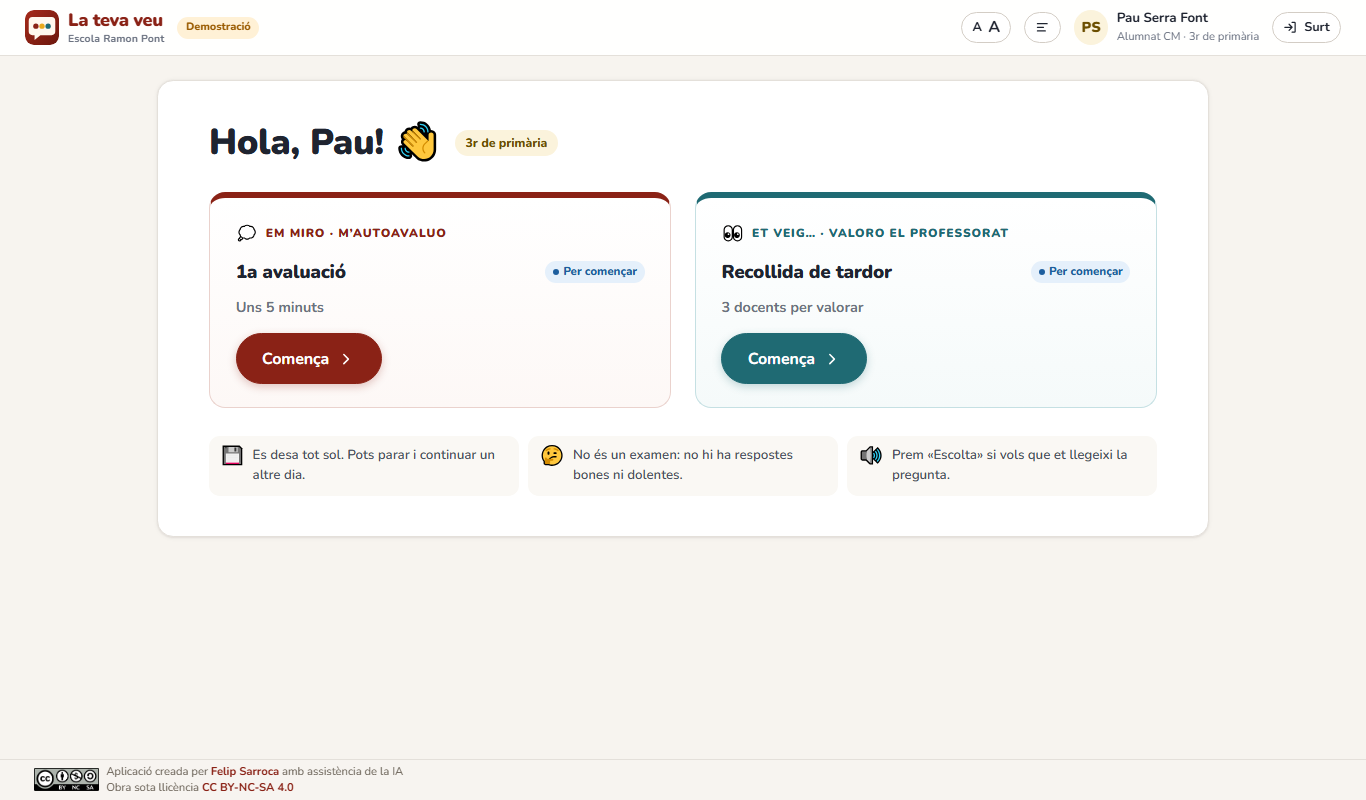
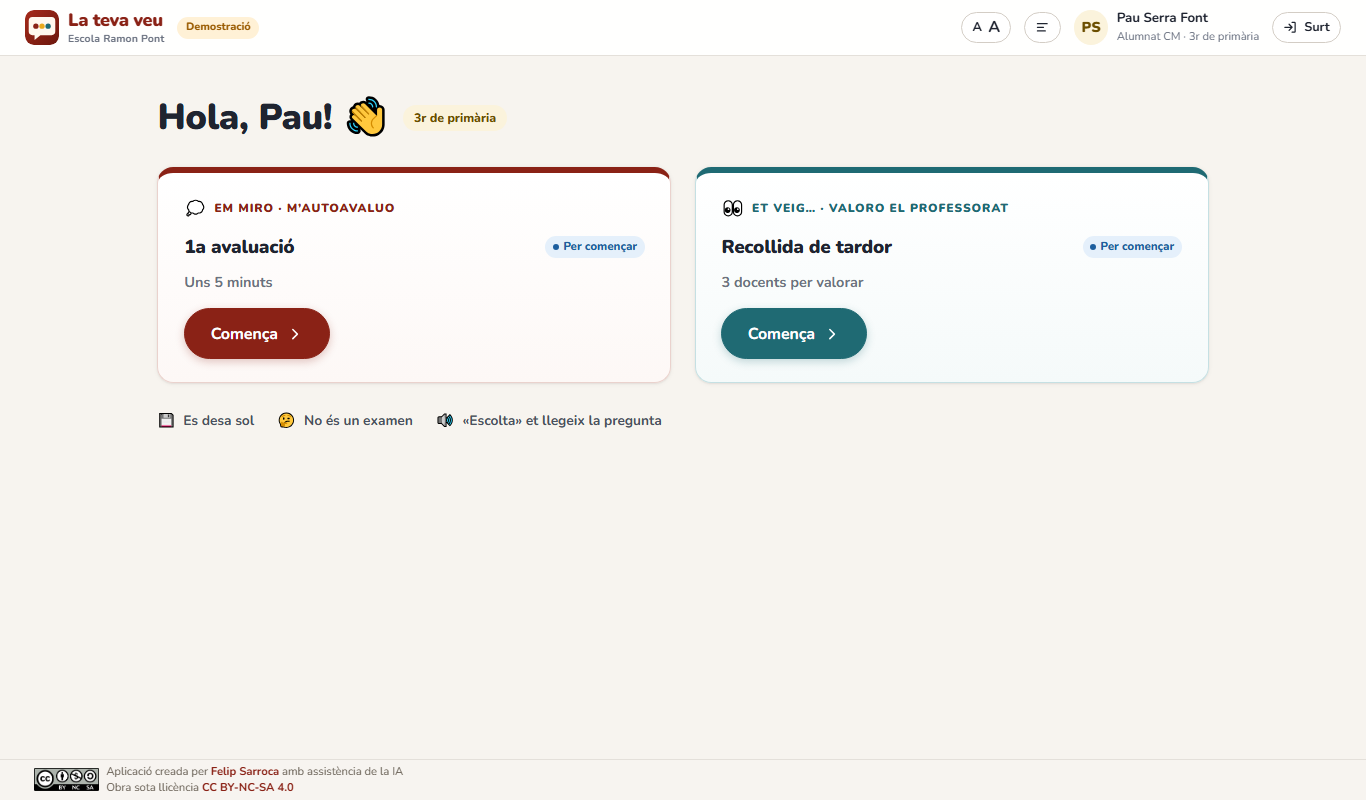
La teva veu: pantalles de l'alumnat més netes i millor lectura en veu alta
- Fora requadres dins de requadres: l'inici i la llista de docents ja no
  van dins d'una targeta; les preguntes són files amb una línia divisòria;
  el resum final és una llista simple; el docent que es valora, sense caixa.
- Fora textos sobrers: la frase de la llista de docents, l'avís blau de
  confidencialitat (ara una línia), els rètols «Bloc», «Apartat» i «Abans
  d'enviar», l'ajuda de les observacions, el nom de l'etapa i els consells
  llargs. A primària, tampoc les dates.
- Veu: tria la millor veu catalana (naturals d'Edge o Google a Android),
  llegeix frase a frase, salta els emojis i adapta la velocitat.
- Captures del README i SEGUIMENT.md actualitzats.

diff --git a/LaTevaVeu/src/student/EtVeig.tsx b/LaTevaVeu/src/student/EtVeig.tsx
@@ -110,28 +110,20 @@ function TeacherList({ home, stage, onPick, onExit }: { home: FeedbackHome; stag
   const all = done === total
   return (
     <main className="stu-main etveig">
-      <section className="card hello">
+      <section className="hello plain">
         <div className="mod-kicker ev">
           <span aria-hidden="true">👀</span> Et veig…
         </div>
         <h1>{all ? 'Ho has fet tot! Gràcies.' : 'La meva mirada al professorat'}</h1>
-        <p className="step-intro">
-          {stage === 'CM'
-            ? 'Explica com et sents a les classes de cada mestre. No hi ha respostes bones ni dolentes.'
-            : 'Explica com vius les classes de cada docent i què t’ajuda a aprendre. Serveix perquè l’escola millori com ensenya.'}
+        <p className="quiet-note">
+          <Icon name="shield" /> {stage === 'CM' ? 'El mestre no veurà mai les teves respostes.' : 'El docent no veurà mai les teves respostes, només les del grup.'}
         </p>
-        <div className="notice">
-          <Icon name="shield" />
-          <div>
-            Les teves respostes s’ajunten amb les dels companys. El docent veu els resultats del grup, <b>mai les teves respostes</b>. Un cop lliurada la valoració d’un docent, ja no es pot canviar.
-          </div>
-        </div>
         <div className="progress">
           <div className="progress-top">
             <span>
               {done} de {total} {stage === 'CM' ? 'mestres' : 'docents'} fets
             </span>
-            <span>Oberta fins al {fmtDate(home.campaign.end)}</span>
+            {stage === 'ESO' && <span>Oberta fins al {fmtDate(home.campaign.end)}</span>}
           </div>
           <div className="progress-bar ev" role="progressbar" aria-valuemin={0} aria-valuemax={total} aria-valuenow={done}>
             <div style={{ width: `${(done / total) * 100}%` }} />
@@ -142,7 +134,6 @@ function TeacherList({ home, stage, onPick, onExit }: { home: FeedbackHome; stag
             <TeacherCard key={t.email} t={t} onPick={() => onPick(t.email)} />
           ))}
         </div>
-        {!all && <p className="muted" style={{ fontSize: '.9rem' }}>Pots fer-ne uns quants avui i continuar un altre dia: el que comencis es desa sol.</p>}
         {onExit && (
           <div className="row">
             <button className="btn" onClick={onExit}>
@@ -346,20 +337,17 @@ function TeacherForm({ source, scale, stage, home, target, onBack, onDone }: { s
               </div>
               <h2 className="step-title">Vols afegir-hi alguna cosa?</h2>
             </div>
-            <p className="step-intro">És opcional. Escriu sobre les classes, no sobre companys. No posis noms ni detalls que permetin saber qui ets.</p>
+            <p className="step-intro">Parla de les classes i no posis noms.</p>
             {form.open.map((q) => (
               <TextAnswer key={q.id} q={{ id: q.id, type: 'shortText', text: q.text, required: false, maxLength: q.maxLength, active: true }} ctx={{ stage, scales: [scale], answers, set }} />
             ))}
             {missing.length > 0 && (
-              <div className="notice warn">
-                <Icon name="alert" />
-                <div>
-                  Et {missing.length === 1 ? 'falta 1 afirmació' : `falten ${missing.length} afirmacions`} per respondre.{' '}
-                  <button className="link-btn" onClick={() => go(steps.findIndex((st) => (st.kind === 'item' ? st.item.id === missing[0].id : st.kind === 'dim' && st.dimId === missing[0].dimensionId)))}>
-                    Vés-hi
-                  </button>
-                </div>
-              </div>
+              <p className="step-intro">
+                Et {missing.length === 1 ? 'falta 1 afirmació' : `falten ${missing.length} afirmacions`} per respondre.{' '}
+                <button className="link-btn" onClick={() => go(steps.findIndex((st) => (st.kind === 'item' ? st.item.id === missing[0].id : st.kind === 'dim' && st.dimId === missing[0].dimensionId)))}>
+                  Vés-hi
+                </button>
+              </p>
             )}
           </>
         )}
@@ -383,7 +371,7 @@ function TeacherForm({ source, scale, stage, home, target, onBack, onDone }: { s
 
       {confirm && (
         <Modal title={`Lliures la valoració de ${target.name}?`} onClose={() => setConfirm(false)}>
-          <p>Un cop lliurada, s’ajuntarà amb la dels companys i ja no la podràs canviar.</p>
+          <p>Després ja no la podràs canviar.</p>
           <div className="row" style={{ justifyContent: 'flex-end' }}>
             <button className="btn" onClick={() => setConfirm(false)}>Encara no</button>
             <button className="btn primary ev" onClick={submit} disabled={busy}>

diff --git a/LaTevaVeu/src/student/StudentApp.tsx b/LaTevaVeu/src/student/StudentApp.tsx
@@ -1,6 +1,6 @@
 import { useEffect, useMemo, useRef, useState } from 'react'
 import { feedbackHome, logAudit, saveDraft, studentHome, submitResponse, useDemoState, type FeedbackHome } from '../data/api'
-import { gradeById, STAGES } from '../domain/catalog'
+import { gradeById } from '../domain/catalog'
 import { gradeAndGroup } from '../domain/groups'
 import { buildSteps, findMissing, progress, requiredKeys, stepComplete, type Step } from '../domain/engine'
 import type { Answers, Session } from '../domain/types'
@@ -55,7 +55,9 @@ export function StudentApp({ session }: { session: Session }) {
             <div className="big" aria-hidden="true">🎉</div>
             <h1>Ja està! Gràcies, {home.student.name}.</h1>
             <p className="step-intro" style={{ maxWidth: 520 }}>
-              La teva autoavaluació s’ha lliurat correctament. El teu tutor o tutora la podrà llegir. Fins al {fmtDate(home.campaign!.end)} encara la pots revisar si cal.
+              {stage === 'ESO'
+                ? `El teu tutor o tutora la podrà llegir. Fins al ${fmtDate(home.campaign!.end)} encara la pots revisar.`
+                : 'El teu tutor o tutora la llegirà.'}
             </p>
             <div className="row" style={{ justifyContent: 'center' }}>
               <button className="btn" onClick={() => setView('home')}>Torna a l’inici</button>
@@ -88,7 +90,7 @@ function StudentHome({ home, fb, session, onStart, onEtVeig, toast }: { home: No
 
   return (
     <main className="stu-main stu-home">
-      <section className="card hello">
+      <section className="hello plain">
         <div className="hello-top">
           <h1>
             Hola, {student.name}! <span aria-hidden="true">👋</span>
@@ -169,11 +171,11 @@ function StudentHome({ home, fb, session, onStart, onEtVeig, toast }: { home: No
         </div>
 
         {campaign && !delivered && (
-          <div className="tips">
-            <div className="tip"><span className="em" aria-hidden="true">💾</span>Es desa tot sol. Pots parar i continuar un altre dia.</div>
-            <div className="tip"><span className="em" aria-hidden="true">🤔</span>No és un examen: no hi ha respostes bones ni dolentes.</div>
-            <div className="tip"><span className="em" aria-hidden="true">{grade.stage === 'ESO' ? '🎯' : '🔊'}</span>{grade.stage === 'ESO' ? 'Sigues sincer: t’ajudarà a millorar.' : 'Prem «Escolta» si vols que et llegeixi la pregunta.'}</div>
-          </div>
+          <ul className="tips">
+            <li><span aria-hidden="true">💾</span> Es desa sol</li>
+            <li><span aria-hidden="true">🤔</span> No és un examen</li>
+            {grade.stage !== 'ESO' && <li><span aria-hidden="true">🔊</span> «Escolta» et llegeix la pregunta</li>}
+          </ul>
         )}
 
         {home.history.length > 0 && (
@@ -211,7 +213,6 @@ function StudentHome({ home, fb, session, onStart, onEtVeig, toast }: { home: No
           </div>
         </Modal>
       )}
-      {!young && <p className="muted" style={{ textAlign: 'center', fontSize: '.85rem' }}>{STAGES[grade.stage].name}</p>}
     </main>
   )
 }
@@ -399,17 +400,11 @@ function Questionnaire({ session, stage, home, onExit, onDone }: { session: Sess
           <StepBody step={step} ctx={{ stage, scales: s.scales, answers, set, flagged, previousGoal: home.previousGoal }} />
         ) : (
           <>
-            <div className="step-kicker">
-              <span className="em" aria-hidden="true">🔎</span> Abans d’enviar
-            </div>
-            <h2 className="step-title">{missing.length ? 'Gairebé ho tens!' : 'Ho tens tot! Revisa-ho i envia-ho.'}</h2>
+            <h2 className="step-title">{missing.length ? 'Gairebé ho tens!' : 'Ho tens tot! Ja ho pots enviar.'}</h2>
             {missing.length > 0 && (
-              <div className="notice warn">
-                <Icon name="alert" />
-                <div>
-                  Et {missing.length === 1 ? 'falta 1 resposta' : `falten ${missing.length} respostes`}. Toca un apartat per completar-lo.
-                </div>
-              </div>
+              <p className="step-intro">
+                Et {missing.length === 1 ? 'falta 1 resposta' : `falten ${missing.length} respostes`}. Toca un apartat per acabar-lo.
+              </p>
             )}
             <div className="review-list">
               {reviewSections.map((r) => (

diff --git a/LaTevaVeu/src/styles.css b/LaTevaVeu/src/styles.css
@@ -281,9 +281,10 @@ body { padding-bottom: var(--footer-h); }
 
 /* Llista d'afirmacions amb opcions segmentades */
 .qlist { display: grid; gap: .8rem; }
-.qrow { display: grid; gap: .6rem; padding: .95rem 1rem; border: 1.5px solid var(--line); border-radius: var(--r-m); background: #fff; transition: border-color .15s, background .15s; }
-.qrow.done { border-color: #cfe3d6; background: #fbfdfb; }
-.qrow.missing { border-color: #f0b4ad; background: #fff8f7; }
+.qlist:has(> .qrow) { gap: .15rem; }
+.qrow { display: grid; gap: .6rem; padding: .9rem .25rem; margin: 0; border: 0; border-bottom: 1px solid var(--line); border-radius: 0; background: none; transition: background .15s; }
+.qrow:last-child { border-bottom: 0; }
+.qrow.missing { background: #fff6f5; border-radius: var(--r-s); box-shadow: inset 3px 0 0 #e58f86; padding-left: .8rem; }
 .qrow legend, .qrow .qtext { font-weight: 800; font-size: 1.04rem; padding: 0; display: flex; gap: .6rem; align-items: flex-start; }
 .qrow .qnum { display: grid; place-items: center; min-width: 26px; height: 26px; border-radius: 50%; background: var(--gold-soft); color: #6b4e00; font-size: .8rem; flex: none; margin-top: .05em; }
 .qrow.done .qnum { background: var(--ok); color: #fff; }
@@ -335,14 +336,19 @@ fieldset.qrow { margin: 0; min-width: 0; }
 .hello-wrong { margin-left: auto; font-size: .82rem; }
 .campaign-box { display: grid; gap: .8rem; padding: 1.2rem; border: 2px solid var(--line); border-radius: var(--r-l); }
 .campaign-box h2 { font-size: 1.3rem; font-weight: 900; }
-.tips { display: grid; grid-template-columns: repeat(auto-fit, minmax(170px, 1fr)); gap: .6rem; }
-.tip { display: flex; gap: .55rem; align-items: flex-start; padding: .7rem .8rem; border-radius: var(--r-m); background: #faf8f4; font-size: .92rem; color: var(--ink-2); font-weight: 600; }
-.tip .em { font-size: 1.3rem; line-height: 1.1; }
+.tips { display: flex; flex-wrap: wrap; gap: .4rem 1.6rem; margin: 0; padding: 0; list-style: none; color: var(--ink-2); font-weight: 700; font-size: .95rem; }
+.tips span { margin-right: .3rem; }
+/* Inici de l'alumnat sense targeta que ho embolcalli tot: només els apartats fan de requadre. */
+.hello.plain { padding: clamp(8px, calc(2 * var(--vh)), 24px) 0 0; }
+.hello.plain .campaign-box.mod { box-shadow: var(--sh-1); }
+.quiet-note { display: flex; align-items: center; gap: .45rem; color: var(--ink-2); font-weight: 600; }
+.quiet-note svg { width: 18px; height: 18px; color: var(--ev); flex: none; }
 
 /* Revisió final */
-.review-list { display: grid; gap: .5rem; }
-.review-item { display: flex; align-items: center; gap: .8rem; padding: .7rem .9rem; border: 1.5px solid var(--line); border-radius: var(--r-m); background: #fff; text-align: left; width: 100%; }
-.review-item:hover { border-color: var(--gold); }
+.review-list { display: grid; }
+.review-item { display: flex; align-items: center; gap: .8rem; padding: .85rem .3rem; border: 0; border-bottom: 1px solid var(--line); background: none; text-align: left; width: 100%; }
+.review-item:last-child { border-bottom: 0; }
+.review-item:hover { background: var(--gold-soft); }
 .review-item .em { font-size: 1.3rem; }
 .review-item b { flex: 1; }
 .done-hero { text-align: center; display: grid; justify-items: center; gap: 1rem; padding: clamp(28px, calc(6 * var(--vh)), 60px) 20px; }
@@ -525,7 +531,7 @@ table.t { width: 100%; border-collapse: collapse; font-size: .92rem; }
 .t-info b { font-weight: 900; font-size: 1.02rem; }
 .t-info small { color: var(--ink-3); font-weight: 700; font-size: .82rem; overflow-wrap: anywhere; }
 .t-go { margin-left: auto; display: grid; place-items: center; width: 34px; height: 34px; border-radius: 50%; background: var(--ev-soft); color: var(--ev); flex: none; }
-.t-banner { display: flex; align-items: center; gap: .8rem; padding: .7rem 1rem; border-radius: var(--r-l); background: var(--ev-soft); border: 1.5px solid #c5e0e3; }
+.t-banner { display: flex; align-items: center; gap: .8rem; padding: .2rem .25rem; }
 .t-banner .t-info small:first-child { text-transform: uppercase; letter-spacing: .06em; font-size: .72rem; color: var(--ev); }
 
 /* Professorat: autoavaluació, informes i visió de centre */

diff --git a/LaTevaVeu/src/ui/common.tsx b/LaTevaVeu/src/ui/common.tsx
@@ -208,18 +208,56 @@ export function canSpeak() {
   return typeof window !== 'undefined' && 'speechSynthesis' in window
 }
 
+// Les veus «naturals» (Edge, Android) sonen molt millor que les clàssiques del sistema.
+const NATURAL = /natural|neural|online|enhanced|premium|wavenet/i
+
+let voices: SpeechSynthesisVoice[] = []
+function loadVoices() {
+  voices = window.speechSynthesis.getVoices()
+}
+if (canSpeak()) {
+  loadVoices()
+  window.speechSynthesis.addEventListener?.('voiceschanged', loadVoices)
+}
+
+/** La millor veu catalana disponible: primer les naturals, després les del núvol i les locals. */
+export function bestCatalanVoice(): SpeechSynthesisVoice | null {
+  const ca = voices.filter((v) => /^ca([-_]|$)/i.test(v.lang))
+  const score = (v: SpeechSynthesisVoice) => (NATURAL.test(v.name) ? 4 : 0) + (v.localService ? 0 : 1)
+  return ca.sort((a, b) => score(b) - score(a))[0] ?? null
+}
+
+/** Frases curtes, sense emojis: sonen més naturals i Chrome no talla les lectures llargues. */
+function sentences(text: string) {
+  return text
+    .replace(/\p{Extended_Pictographic}||/gu, '')
+    .replace(/[«»"]/g, '')
+    .replace(/…/g, '.')
+    .split(/(?<=[.!?:;])\s+/)
+    .map((x) => x.trim())
+    .filter(Boolean)
+}
+
 export function speak(text: string, onEnd?: () => void) {
   if (!canSpeak()) return
   const s = window.speechSynthesis
   s.cancel()
-  const u = new SpeechSynthesisUtterance(text)
-  u.lang = 'ca-ES'
-  const voice = s.getVoices().find((v) => v.lang.toLowerCase().startsWith('ca'))
-  if (voice) u.voice = voice
-  u.rate = 0.92
-  u.onend = () => onEnd?.()
-  u.onerror = () => onEnd?.()
-  s.speak(u)
+  if (!voices.length) loadVoices()
+  const voice = bestCatalanVoice()
+  const parts = sentences(text)
+  if (!parts.length) return onEnd?.()
+  parts.forEach((part, i) => {
+    const u = new SpeechSynthesisUtterance(part)
+    u.lang = voice?.lang ?? 'ca-ES'
+    if (voice) u.voice = voice
+    // Les veus naturals ja tenen bon ritme; les clàssiques s'entenen millor una mica més lentes.
+    u.rate = voice && NATURAL.test(voice.name) ? 1 : 0.88
+    if (i === parts.length - 1) {
+      u.onend = () => onEnd?.()
+      u.onerror = () => onEnd?.()
+    }
+    s.speak(u)
+  })
 }
 
 export function SpeakButton({ text, label = 'Escolta' }: { text: string; label?: string }) {

diff --git a/LaTevaVeu/src/student/Questions.tsx b/LaTevaVeu/src/student/Questions.tsx
@@ -160,13 +160,9 @@ export function StepBody({ step, ctx }: { step: Step; ctx: Ctx }) {
     let n = 0
     return (
       <>
-        <div>
-          <div className="step-kicker">
-            <span className="em" aria-hidden="true">{section.emoji}</span>
-            {ctx.stage === 'ESO' ? 'Bloc' : 'Apartat'}
-          </div>
-          <h2 className="step-title">{section.title}</h2>
-        </div>
+        <h2 className="step-title">
+          <span aria-hidden="true">{section.emoji}</span> {section.title}
+        </h2>
         {section.intro && <p className="step-intro">{section.intro}</p>}
         <div className="qlist">
           {step.questions.map((q) =>
@@ -227,7 +223,7 @@ export function StepBody({ step, ctx }: { step: Step; ctx: Ctx }) {
           })}
           {q.subjectComment && (
             <TextAnswer
-              q={{ id: `${q.id}|${subject.id}|obs`, type: 'shortText', text: q.subjectComment.prompt, required: q.subjectComment.required, maxLength: q.subjectComment.maxLength, active: true, help: 'Pots escriure-hi una idea concreta. No cal que sigui llarg.' }}
+              q={{ id: `${q.id}|${subject.id}|obs`, type: 'shortText', text: q.subjectComment.prompt, required: q.subjectComment.required, maxLength: q.subjectComment.maxLength, active: true }}
               ctx={ctx}
             />
           )}

diff --git a/LaTevaVeu/SEGUIMENT.md b/LaTevaVeu/SEGUIMENT.md
@@ -75,6 +75,8 @@ Torna-les a fer quan canviï alguna de les pantalles que surten al README.
 - **Correu** (`Centre › Correu`, administració): compte de l'escola que envia, on arriben les respostes (tutoria o adreça fixa) i text editable dels dos missatges amb previsualització. Famílies: «Així em veig» adjunt, text basat en el de VeuAlumnat. Professorat: avís que «Així et veiem» és disponible, sense adjunt. Es desa a `app_settings ('mail')`. «Prepara l'enviament» ja mostra el remitent i l'assumpte real.
 - **Guia del personal**: oberta a tot el personal, amb dos recorreguts pas a pas (tutoria i professorat; administració) abans del detall de cada pantalla, i dubtes freqüents de la tutoria.
 - **README** reorganitzat, amb 13 captures de la demostració.
+- **Pantalles de l'alumnat més netes**: sense targetes dins de targetes (inici, llista de docents, preguntes en files amb línia divisòria, resum final); fora textos sobrers (frase de la llista de docents, avís blau de confidencialitat reduït a una línia, rètols «Bloc» i «Abans d'enviar», ajudes repetides); a primària, sense dates.
+- **Lectura en veu alta**: tria la millor veu catalana disponible (les «naturals» d'Edge o les de Google a Android), llegeix frase a frase i salta els emojis. La qualitat final depèn del navegador: amb Microsoft Edge sona molt millor que amb Chrome a Windows.
 - **Presentació del projecte** (`#/projecte`): sentit, marc normatiu citat de fonts oficials (Convenció sobre els Drets de l'Infant art. 12; LOE-LOMLOE art. 1 i 91; Decret 175/2022 art. 22, 23 i 24), què fa l'app, com funciona, beneficis i privacitat.
 
 ## Pendent
@@ -83,8 +85,9 @@ Torna-les a fer quan canviï alguna de les pantalles que surten al README.
 2. Triar l'allotjament del servidor (a la UE) i desplegar-lo. Abans, crear el rol `latevaveu_app` a Neon i aplicar `db/permisos.sql` (ordres dins del fitxer).
 3. Client OAuth de Google aprovat a la consola de Google Workspace de l'escola.
 4. **Decidir el compte que envia els correus** (recomanat: un compte dedicat, com `latevaveu@ramonpont.cat`) i autoritzar el servidor a enviar en nom seu (Gmail API amb delegació de domini o SMTP de Google Workspace). Després, implementar l'enviament real: cua idempotent, «Envia'm una prova», «Aprova i envia» i registre de cada missatge, fent servir `renderMail` de `src/domain/mail.ts`.
-5. Inventari real de les matèries d'ESO per curs i prova pilot amb alumnat de cada etapa.
-6. PFI: caldria un curs i un qüestionari propis (no es pot tractar com un grup).
+5. **Àudios de qualitat garantida** (opcional): generar els MP3 de les preguntes de primària amb una veu catalana professional (per exemple, ElevenLabs) i fer-los servir quan existeixin, amb la veu del navegador com a reserva per als textos editats.
+6. Inventari real de les matèries d'ESO per curs i prova pilot amb alumnat de cada etapa.
+7. PFI: caldria un curs i un qüestionari propis (no es pot tractar com un grup).
 
 ## Precaucions
 

diff --git a/LaTevaVeu/README.md b/LaTevaVeu/README.md
@@ -93,10 +93,11 @@ Amb Google real, el botó demana el domini de l'escola (`hd=ramonpont.cat`). El 
 
 ### Alumnat
 
+- **Pantalles senzilles.** Sense requadres dins de requadres ni explicacions sobreres: el que cal per respondre i prou.
 - **Pantalla d'inici adaptada a l'edat.** Salutació amb el curs com a etiqueta discreta, perquè el docent de l'aula comprovi que és el compte bo. A primària no hi ha descripcions, dates ni avisos que no entendria; a l'ESO hi ha les dates i un enllaç per avisar si les dades són incorrectes.
 - **Tres experiències.** 3r-4t: una pregunta per pantalla, targetes grans, avanç automàtic i lectura en veu alta. 5è-6è: blocs curts i l'objectiu de l'avaluació anterior. ESO: blocs de 4-5 afirmacions i una pantalla per matèria.
 - **Sense pressa.** Es desa sol, es pot continuar un altre dia i es pot modificar fins al tancament.
-- **Accessibilitat.** Lletra gran, lletra de lectura fàcil (Atkinson Hyperlegible), navegació amb teclat i tancament de sessió després de 20 minuts d'inactivitat.
+- **Accessibilitat.** Lectura en veu alta amb la millor veu catalana del navegador (sona millor amb Microsoft Edge), lletra gran, lletra de lectura fàcil (Atkinson Hyperlegible), navegació amb teclat i tancament de sessió després de 20 minuts d'inactivitat.
 - **Et veig….** Cada docent es valora una sola vegada (no per matèria), en ordre aleatori estable. Preguntes per etapa (6 a cicle mitjà, 12 a cicle superior, 20 a l'ESO), sempre amb «No ho sé». Comentaris opcionals; un cop lliurat no es pot canviar.
 
 ### Tutoria (Em miro)
